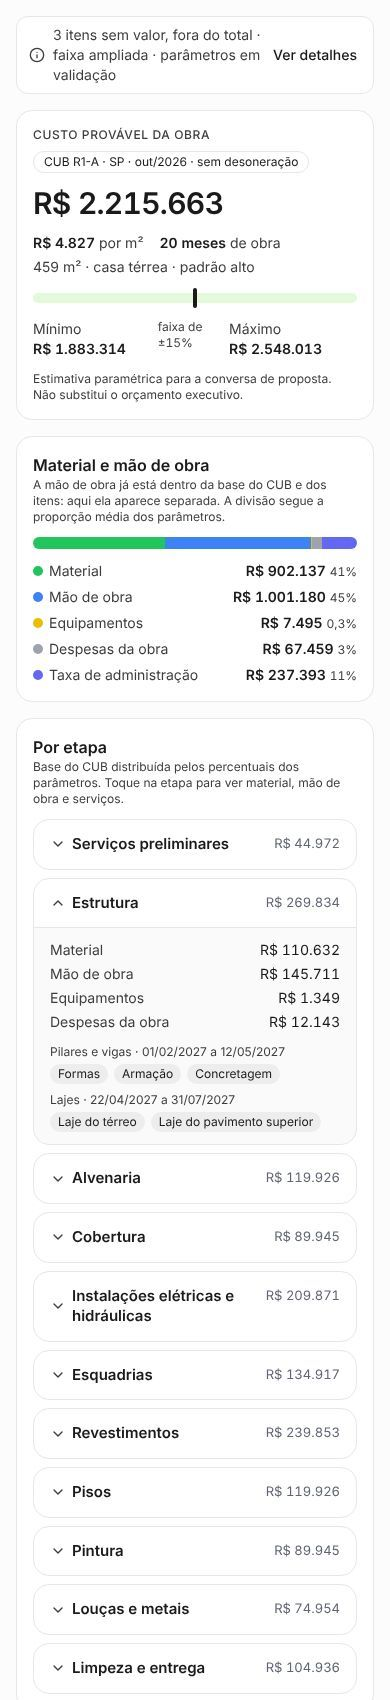
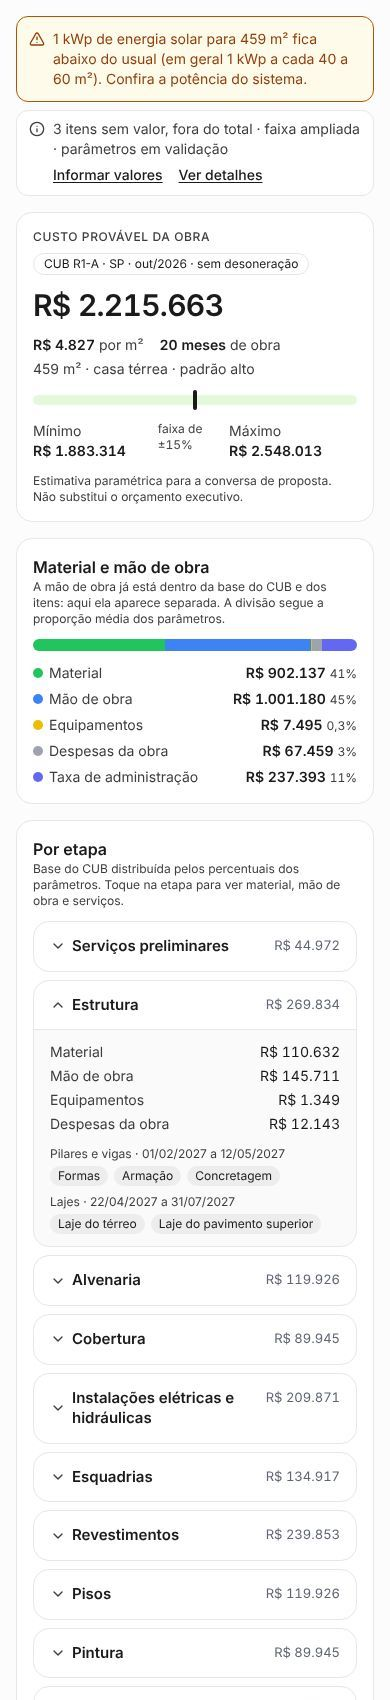
feat(estimativa): quick action for unpriced items and solar size check
- Warning summary gets "Informar valores", which opens the value dialog
  for the first item still without a price.
- Coherence check: solar PV below 1 kWp per 100 m2 of built area is
  flagged as a likely typo (homes usually need 1 kWp per 40 to 60 m2).
- Before/after images updated.

Claude-Session: https://claude.ai/code/session_013rHiKe3jkhFDE9YssLyL9T

Changed region(s): [[0.0308, 0.0, 0.9846, 0.9976], [0.1231, 0.9665, 0.1538, 0.9976], [0.1231, 0.7794, 0.1538, 0.8106]]

diff --git a/src/pages/obras/estimativa/componentes.tsx b/src/pages/obras/estimativa/componentes.tsx
@@ -167,6 +167,9 @@ export function Pilula({ ativa, onClick, children, disabled, title }: PilulaProp
 /** Avisos que mudam a leitura do número: ficam abertos. Os demais são contexto e ficam num resumo de uma linha. */
 const AVISOS_DE_ATENCAO = new Set(["uf_vizinha", "mes_antigo", "coerencia", "ajuste_ignorado"]);
 
+const ACAO_DO_AVISO =
+  "rounded-md py-0.5 font-medium text-ink underline underline-offset-2 hover:no-underline focus-visible:outline-none focus-visible:ring-2 focus-visible:ring-ring";
+
 function resumoDoContexto(avisos: ResultadoEstimativa["avisos"]): string {
   const aDefinir = avisos.filter((a) => a.codigo === "adicional_a_definir").length;
   const partes: string[] = [];
@@ -182,7 +185,14 @@ function resumoDoContexto(avisos: ResultadoEstimativa["avisos"]): string {
  * os de contexto (item a definir, faixa ampliada, parâmetros em validação) viram uma linha, com o texto completo
  * em "Ver detalhes": a lista longa logo no topo escondia o custo (feedback de 12/11).
  */
-export function AvisosEstimativa({ avisos }: { avisos: ResultadoEstimativa["avisos"] }) {
+export function AvisosEstimativa({
+  avisos,
+  onInformarPendentes,
+}: {
+  avisos: ResultadoEstimativa["avisos"];
+  /** Abre o "Informar valor" do primeiro item sem valor. Ausente para quem só lê. */
+  onInformarPendentes?: () => void;
+}) {
   const [aberto, setAberto] = useState(false);
   const idDetalhes = useId();
   const atencao = avisos.filter((a) => AVISOS_DE_ATENCAO.has(a.codigo));
@@ -202,18 +212,27 @@ export function AvisosEstimativa({ avisos }: { avisos: ResultadoEstimativa["avis
       )}
       {contexto.length > 0 && (
         <div className="rounded-xl border bg-card px-3 py-2 text-sm text-ink-soft">
-          <div className="flex items-center gap-2">
-            <Info className="h-4 w-4 shrink-0" aria-hidden="true" />
-            <span className="min-w-0 flex-1">{resumoDoContexto(contexto)}</span>
-            <button
-              type="button"
-              className="shrink-0 rounded-md px-1 py-0.5 font-medium text-ink underline-offset-2 hover:underline focus-visible:outline-none focus-visible:ring-2 focus-visible:ring-ring"
-              aria-expanded={aberto}
-              aria-controls={idDetalhes}
-              onClick={() => setAberto((v) => !v)}
-            >
-              {aberto ? "Ocultar" : "Ver detalhes"}
-            </button>
+          <div className="flex items-start gap-2">
+            <Info className="mt-0.5 h-4 w-4 shrink-0" aria-hidden="true" />
+            <div className="min-w-0 flex-1">
+              <p>{resumoDoContexto(contexto)}</p>
+              <div className="mt-1 flex flex-wrap gap-x-4 gap-y-1">
+                {onInformarPendentes && contexto.some((a) => a.codigo === "adicional_a_definir") && (
+                  <button type="button" className={ACAO_DO_AVISO} onClick={onInformarPendentes}>
+                    Informar valores
+                  </button>
+                )}
+                <button
+                  type="button"
+                  className={ACAO_DO_AVISO}
+                  aria-expanded={aberto}
+                  aria-controls={idDetalhes}
+                  onClick={() => setAberto((v) => !v)}
+                >
+                  {aberto ? "Ocultar" : "Ver detalhes"}
+                </button>
+              </div>
+            </div>
           </div>
           {aberto && (
             <ul id={idDetalhes} className="mt-2 space-y-1.5 border-t pt-2">

diff --git a/src/lib/estimativaObra.ts b/src/lib/estimativaObra.ts
@@ -218,6 +218,14 @@ export function avisosCoerencia(ficha: Ficha): string[] {
       `${formatarNumero(ficha.area)} m² em ${ficha.pavimentos} pavimentos dá menos de 30 m² por pavimento. Confira a área e os pavimentos.`
     );
   }
+  // Fotovoltaica pequena para a casa: uma residência costuma pedir 1 kWp a cada 40 a 60 m². Abaixo de 1 kWp a cada
+  // 100 m² quase sempre é a quantidade digitada errada (ex.: 1 kWp marcado só para "ter energia solar").
+  const kwp = ficha.itens.fv ?? 0;
+  if (kwp > 0 && kwp < ficha.area / 100) {
+    avisos.push(
+      `${formatarNumero(kwp)} kWp de energia solar para ${formatarNumero(ficha.area)} m² fica abaixo do usual (em geral 1 kWp a cada 40 a 60 m²). Confira a potência do sistema.`
+    );
+  }
   if (ficha.terreno > 0 && ficha.piscina > ficha.terreno * 0.4) {
     avisos.push("A piscina ocupa mais de 40% do terreno. Confira a área da piscina e do terreno.");
   }

diff --git a/src/pages/obras/estimativa/EstimativaDetalhe.test.tsx b/src/pages/obras/estimativa/EstimativaDetalhe.test.tsx
@@ -283,6 +283,16 @@ describe("EstimativaDetalhe: origem do preço (SPEC 137)", () => {
     expect(screen.getByRole("button", { name: /Origem do preço de energia solar.*A definir/i })).toBeInTheDocument();
   });
 
+  it("o resumo dos avisos abre o Informar valor do primeiro item sem valor", async () => {
+    comItens();
+    const user = userEvent.setup();
+    abrir();
+    const avisos = screen.getByRole("region", { name: "Avisos da estimativa" });
+    await user.click(within(avisos).getByRole("button", { name: "Informar valores" }));
+    const dialogo = await screen.findByRole("dialog");
+    expect(within(dialogo).getAllByText(/instalação dos aparelhos de ar-condicionado/i).length).toBeGreaterThan(0);
+  });
+
   it("clicar na origem SINAPI abre o código, a UF, o mês e o regime", async () => {
     comItens();
     const user = userEvent.setup();

diff --git a/src/pages/obras/estimativa/EstimativaDetalhe.tsx b/src/pages/obras/estimativa/EstimativaDetalhe.tsx
@@ -269,7 +269,17 @@ export default function EstimativaDetalhe() {
       ) : (
         calculo?.ok && (
           <>
-            <AvisosEstimativa avisos={calculo.resultado.avisos} />
+            <AvisosEstimativa
+              avisos={calculo.resultado.avisos}
+              onInformarPendentes={
+                podeEditar
+                  ? () => {
+                      const pendente = calculo.resultado.adicionais.find((x) => x.valor === null && x.quantidade > 0);
+                      if (pendente) abrirInformar(pendente);
+                    }
+                  : undefined
+              }
+            />
             {aba === "custo" && (
               <div className="grid gap-4 lg:grid-cols-[minmax(0,1fr)_20rem]">
                 <CustoTab

diff --git a/src/lib/estimativaObra.test.ts b/src/lib/estimativaObra.test.ts
@@ -995,3 +995,13 @@ describe("feedback de 12/11: início com dia, natureza por etapa e ar de 36.000 
     expect(r.adicionais.find((a) => a.id === "acinst")?.quantidade).toBe(2);
   });
 });
+
+describe("coerência: energia solar", () => {
+  it("avisa quando a potência fica abaixo de 1 kWp a cada 100 m²", () => {
+    const pouco = avisosCoerencia({ ...sobrado, area: 459, itens: { fv: 1 } });
+    expect(pouco.some((a) => a.includes("1 kWp de energia solar para 459 m²"))).toBe(true);
+    const ok = avisosCoerencia({ ...sobrado, area: 459, itens: { fv: 8 } });
+    expect(ok.some((a) => a.includes("kWp"))).toBe(false);
+    expect(avisosCoerencia({ ...sobrado, itens: {} }).some((a) => a.includes("kWp"))).toBe(false);
+  });
+});

diff --git a/docs/design/antes-depois/estimativa-feedback-12-11/README.md b/docs/design/antes-depois/estimativa-feedback-12-11/README.md
@@ -11,7 +11,8 @@ página (cabeçalho, abas, menu) não aparece.
 
 ## Aba Custo
 
-Os avisos viram uma linha com "Ver detalhes". "Material e mão de obra" sobe para logo abaixo do total, com o valor em
+Os avisos de contexto viram uma linha com "Informar valores" (abre o primeiro item sem valor) e "Ver detalhes".
+Número fora do normal na ficha vira aviso de atenção: aqui, 1 kWp de energia solar para 459 m². "Material e mão de obra" sobe para logo abaixo do total, com o valor em
 reais. A etapa abre e mostra material, mão de obra, equipamentos, despesas e os serviços com as datas. "De onde vem o
 preço" desce para depois dos totais.
 
